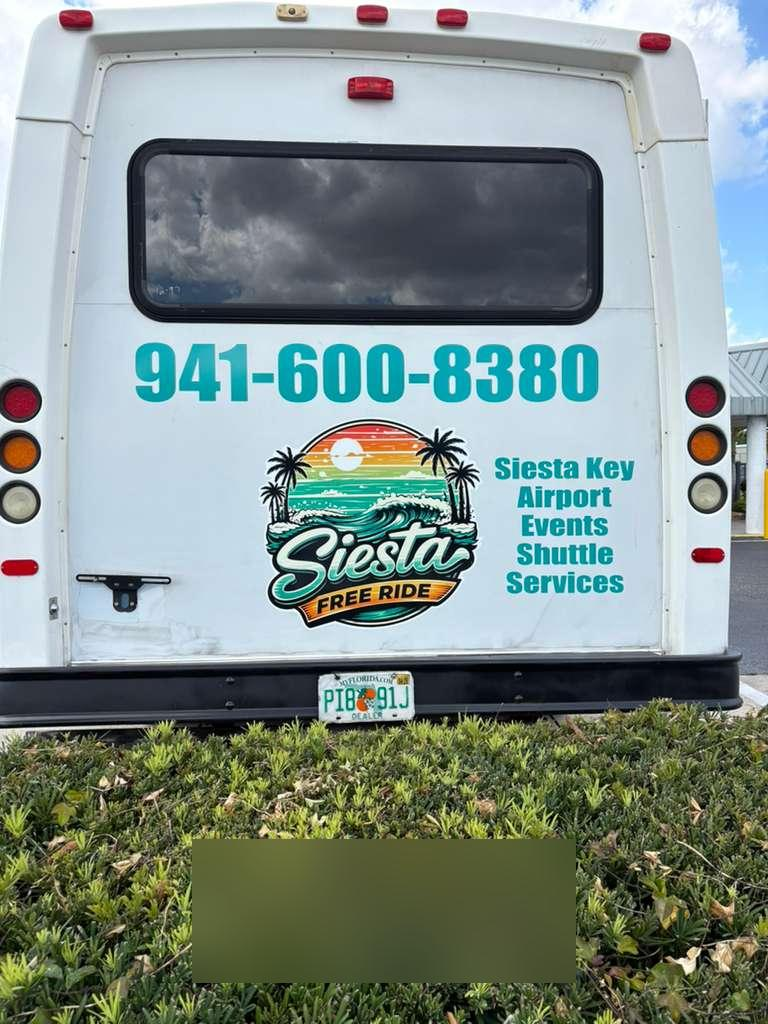
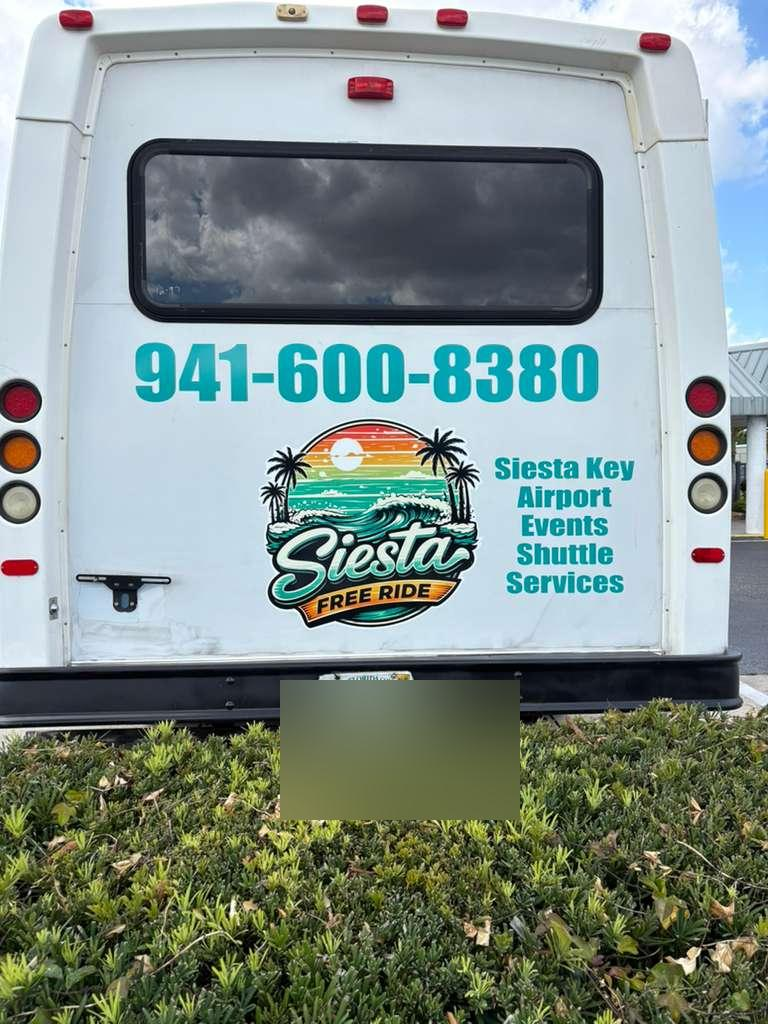
Blur license plates on shuttle-2 and shuttle-3; update photos page

Changed region(s): [[0.25, 0.6562, 0.75, 0.9688]]

diff --git a/photos.html b/photos.html
@@ -117,13 +117,13 @@
                     </div>
                 </div>
                 <div class="overflow-hidden rounded-xl shadow-lg bg-white">
-                    <img src="/assets/photos/shuttle-2.jpg" alt="White and green shuttle with Budweiser advertising" class="w-full h-auto object-cover">
+                    <img src="/assets/photos/shuttle-2-blurred.jpg" alt="White and green shuttle with Budweiser advertising" class="w-full h-auto object-cover">
                     <div class="p-4">
                         <p class="text-gray-700">White and green shuttle featuring 'Siesta Key Airport Events Shuttle Services' and advertising panels.</p>
                     </div>
                 </div>
                 <div class="overflow-hidden rounded-xl shadow-lg bg-white">
-                    <img src="/assets/photos/shuttle-3.jpg" alt="Front view of our Ford E‑Series shuttle" class="w-full h-auto object-cover">
+                    <img src="/assets/photos/shuttle-3-blurred.jpg" alt="Front view of our Ford E‑Series shuttle" class="w-full h-auto object-cover">
                     <div class="p-4">
                         <p class="text-gray-700">Front view of our Ford E‑Series shuttle with raised roof and Siesta Shuttle branding.</p>
                     </div>
